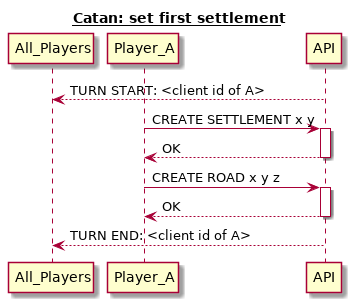
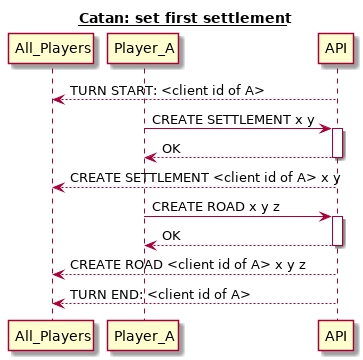
docs: add diagram one_turn and update some of them

Changed region(s): [[0.0, 0.0298, 0.9972, 1.0], [0.8547, 0.2682, 0.8832, 0.298], [0.7692, 0.8344, 0.7977, 0.8642]]

diff --git a/docs/sequence/04_one_turn/README.md b/docs/sequence/04_one_turn/README.md
@@ -1,0 +1,1 @@
+![img](./one_turn.png)
